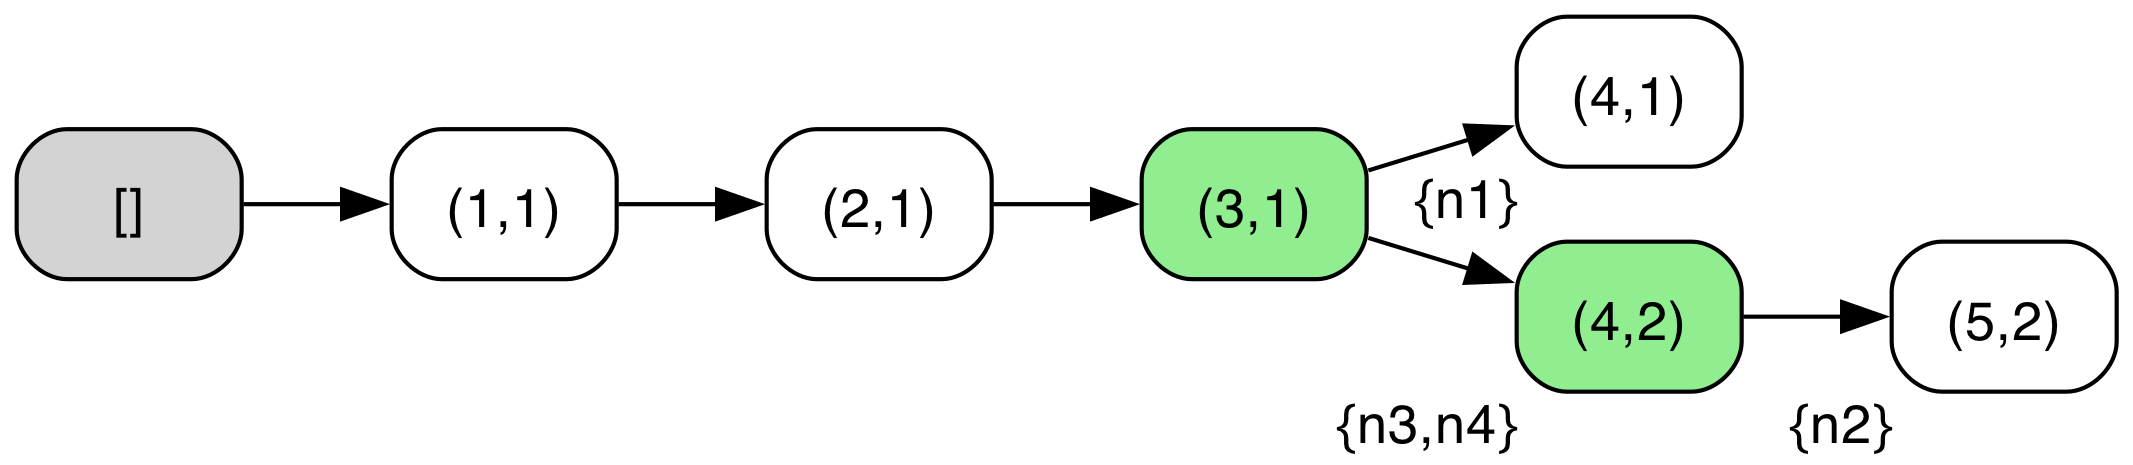
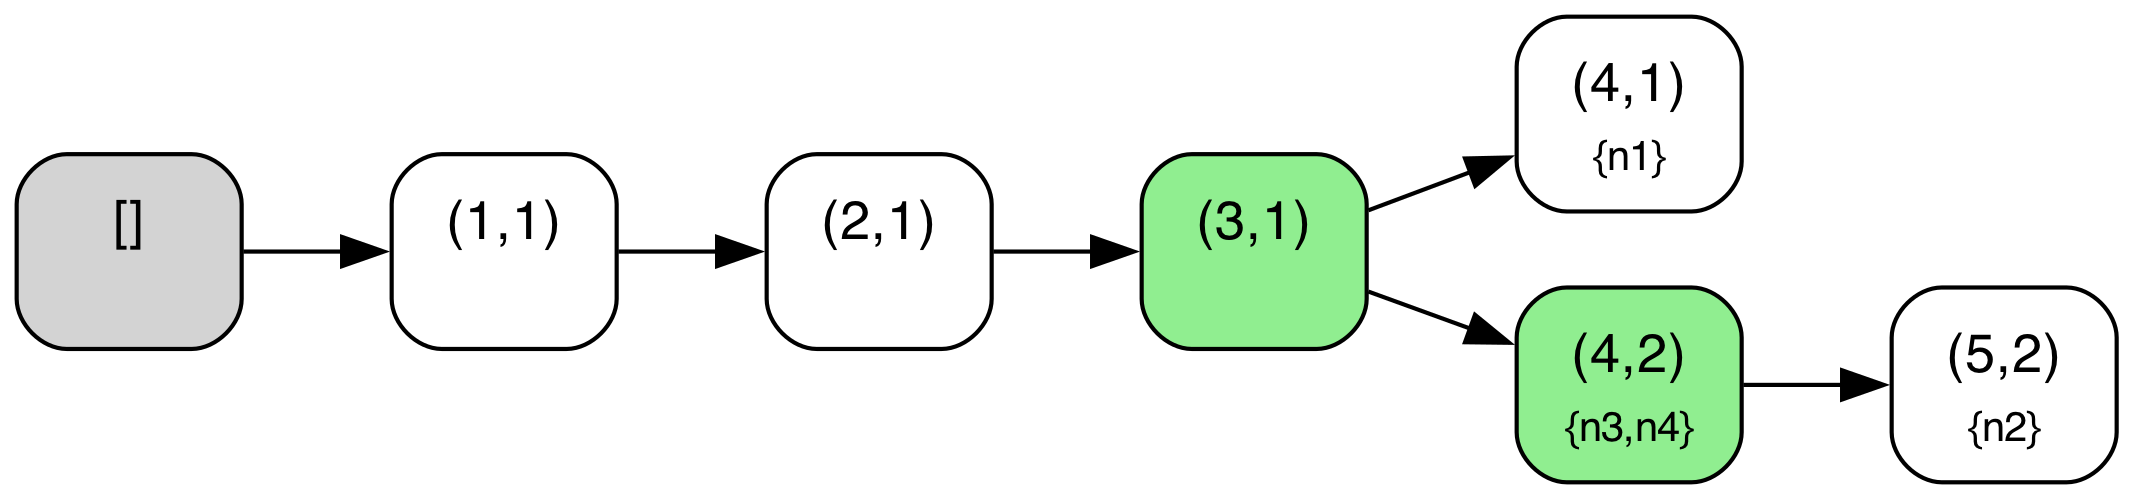
Update visuals

diff --git a/_includes/log_tree.html b/_includes/log_tree.html
@@ -1,127 +1,127 @@
-<table style="margin: 0 auto;">
+<table style="margin: 0 auto;min-width: 780px;">
 <tr>
 <td style="text-align: left; font-size: 12px;padding: 15px"><b>State 0</b>: Initial State</td>
 <td style="text-align: left;padding: 18px">
-<img src="/assets/logless-raft/imgs/log_tree_0.png" alt="Logless Raft Diagram" height="43.199999999999996">
+<img src="/assets/logless-raft/imgs/log_tree_0.png" alt="Logless Raft Diagram" height="50.160000000000004">
 </td>
 </tr>
 
 <tr>
 <td style="text-align: left; font-size: 12px;padding: 15px"><b>State 1</b>: BecomeLeader(n1, ['n1', 'n2', 'n3'])</td>
 <td style="text-align: left;padding: 18px">
-<img src="/assets/logless-raft/imgs/log_tree_1.png" alt="Logless Raft Diagram" height="43.199999999999996">
+<img src="/assets/logless-raft/imgs/log_tree_1.png" alt="Logless Raft Diagram" height="50.160000000000004">
 </td>
 </tr>
 
 <tr>
 <td style="text-align: left; font-size: 12px;padding: 15px"><b>State 2</b>: ClientRequest(n1)</td>
 <td style="text-align: left;padding: 18px">
-<img src="/assets/logless-raft/imgs/log_tree_2.png" alt="Logless Raft Diagram" height="43.199999999999996">
+<img src="/assets/logless-raft/imgs/log_tree_2.png" alt="Logless Raft Diagram" height="50.160000000000004">
 </td>
 </tr>
 
 <tr>
 <td style="text-align: left; font-size: 12px;padding: 15px"><b>State 3</b>: ClientRequest(n1)</td>
 <td style="text-align: left;padding: 18px">
-<img src="/assets/logless-raft/imgs/log_tree_3.png" alt="Logless Raft Diagram" height="43.199999999999996">
+<img src="/assets/logless-raft/imgs/log_tree_3.png" alt="Logless Raft Diagram" height="50.160000000000004">
 </td>
 </tr>
 
 <tr>
 <td style="text-align: left; font-size: 12px;padding: 15px"><b>State 4</b>: ClientRequest(n1)</td>
 <td style="text-align: left;padding: 18px">
-<img src="/assets/logless-raft/imgs/log_tree_4.png" alt="Logless Raft Diagram" height="43.199999999999996">
+<img src="/assets/logless-raft/imgs/log_tree_4.png" alt="Logless Raft Diagram" height="50.160000000000004">
 </td>
 </tr>
 
 <tr>
 <td style="text-align: left; font-size: 12px;padding: 15px"><b>State 5</b>: MergeEntries(n2, n1)</td>
 <td style="text-align: left;padding: 18px">
-<img src="/assets/logless-raft/imgs/log_tree_5.png" alt="Logless Raft Diagram" height="43.199999999999996">
+<img src="/assets/logless-raft/imgs/log_tree_5.png" alt="Logless Raft Diagram" height="50.160000000000004">
 </td>
 </tr>
 
 <tr>
 <td style="text-align: left; font-size: 12px;padding: 15px"><b>State 6</b>: MergeEntries(n3, n1)</td>
 <td style="text-align: left;padding: 18px">
-<img src="/assets/logless-raft/imgs/log_tree_6.png" alt="Logless Raft Diagram" height="43.199999999999996">
+<img src="/assets/logless-raft/imgs/log_tree_6.png" alt="Logless Raft Diagram" height="50.160000000000004">
 </td>
 </tr>
 
 <tr>
 <td style="text-align: left; font-size: 12px;padding: 15px"><b>State 7</b>: CommitEntry(n1, ['n1', 'n2', 'n3'])</td>
 <td style="text-align: left;padding: 18px">
-<img src="/assets/logless-raft/imgs/log_tree_7.png" alt="Logless Raft Diagram" height="43.199999999999996">
+<img src="/assets/logless-raft/imgs/log_tree_7.png" alt="Logless Raft Diagram" height="50.160000000000004">
 </td>
 </tr>
 
 <tr>
 <td style="text-align: left; font-size: 12px;padding: 15px"><b>State 8</b>: ClientRequest(n1)</td>
 <td style="text-align: left;padding: 18px">
-<img src="/assets/logless-raft/imgs/log_tree_8.png" alt="Logless Raft Diagram" height="43.199999999999996">
+<img src="/assets/logless-raft/imgs/log_tree_8.png" alt="Logless Raft Diagram" height="50.160000000000004">
 </td>
 </tr>
 
 <tr>
 <td style="text-align: left; font-size: 12px;padding: 15px"><b>State 9</b>: BecomeLeader(n2, ['n2', 'n3', 'n4'])</td>
 <td style="text-align: left;padding: 18px">
-<img src="/assets/logless-raft/imgs/log_tree_9.png" alt="Logless Raft Diagram" height="43.199999999999996">
+<img src="/assets/logless-raft/imgs/log_tree_9.png" alt="Logless Raft Diagram" height="50.160000000000004">
 </td>
 </tr>
 
 <tr>
 <td style="text-align: left; font-size: 12px;padding: 15px"><b>State 10</b>: ClientRequest(n2)</td>
 <td style="text-align: left;padding: 18px">
-<img src="/assets/logless-raft/imgs/log_tree_10.png" alt="Logless Raft Diagram" height="83.7">
+<img src="/assets/logless-raft/imgs/log_tree_10.png" alt="Logless Raft Diagram" height="109.78">
 </td>
 </tr>
 
 <tr>
 <td style="text-align: left; font-size: 12px;padding: 15px"><b>State 11</b>: MergeEntries(n3, n2)</td>
 <td style="text-align: left;padding: 18px">
-<img src="/assets/logless-raft/imgs/log_tree_11.png" alt="Logless Raft Diagram" height="83.7">
+<img src="/assets/logless-raft/imgs/log_tree_11.png" alt="Logless Raft Diagram" height="109.78">
 </td>
 </tr>
 
 <tr>
 <td style="text-align: left; font-size: 12px;padding: 15px"><b>State 12</b>: MergeEntries(n4, n2)</td>
 <td style="text-align: left;padding: 18px">
-<img src="/assets/logless-raft/imgs/log_tree_12.png" alt="Logless Raft Diagram" height="83.7">
+<img src="/assets/logless-raft/imgs/log_tree_12.png" alt="Logless Raft Diagram" height="109.78">
 </td>
 </tr>
 
 <tr>
 <td style="text-align: left; font-size: 12px;padding: 15px"><b>State 13</b>: CommitEntry(n2, ['n2', 'n3', 'n4'])</td>
 <td style="text-align: left;padding: 18px">
-<img src="/assets/logless-raft/imgs/log_tree_13.png" alt="Logless Raft Diagram" height="83.7">
+<img src="/assets/logless-raft/imgs/log_tree_13.png" alt="Logless Raft Diagram" height="109.78">
 </td>
 </tr>
 
 <tr>
 <td style="text-align: left; font-size: 12px;padding: 15px"><b>State 14</b>: ClientRequest(n2)</td>
 <td style="text-align: left;padding: 18px">
-<img src="/assets/logless-raft/imgs/log_tree_14.png" alt="Logless Raft Diagram" height="83.7">
+<img src="/assets/logless-raft/imgs/log_tree_14.png" alt="Logless Raft Diagram" height="109.78">
 </td>
 </tr>
 
 <tr>
 <td style="text-align: left; font-size: 12px;padding: 15px"><b>State 15</b>: BecomeLeader(n3, ['n1', 'n3', 'n4'])</td>
 <td style="text-align: left;padding: 18px">
-<img src="/assets/logless-raft/imgs/log_tree_15.png" alt="Logless Raft Diagram" height="83.7">
+<img src="/assets/logless-raft/imgs/log_tree_15.png" alt="Logless Raft Diagram" height="109.78">
 </td>
 </tr>
 
 <tr>
 <td style="text-align: left; font-size: 12px;padding: 15px"><b>State 16</b>: ClientRequest(n3)</td>
 <td style="text-align: left;padding: 18px">
-<img src="/assets/logless-raft/imgs/log_tree_16.png" alt="Logless Raft Diagram" height="103.86">
+<img src="/assets/logless-raft/imgs/log_tree_16.png" alt="Logless Raft Diagram" height="139.04">
 </td>
 </tr>
 
 <tr>
 <td style="text-align: left; font-size: 12px;padding: 15px"><b>State 17</b>: MergeEntries(n1, n2)</td>
 <td style="text-align: left;padding: 18px">
-<img src="/assets/logless-raft/imgs/log_tree_17.png" alt="Logless Raft Diagram" height="83.7">
+<img src="/assets/logless-raft/imgs/log_tree_17.png" alt="Logless Raft Diagram" height="109.78">
 </td>
 </tr>
 </table>
